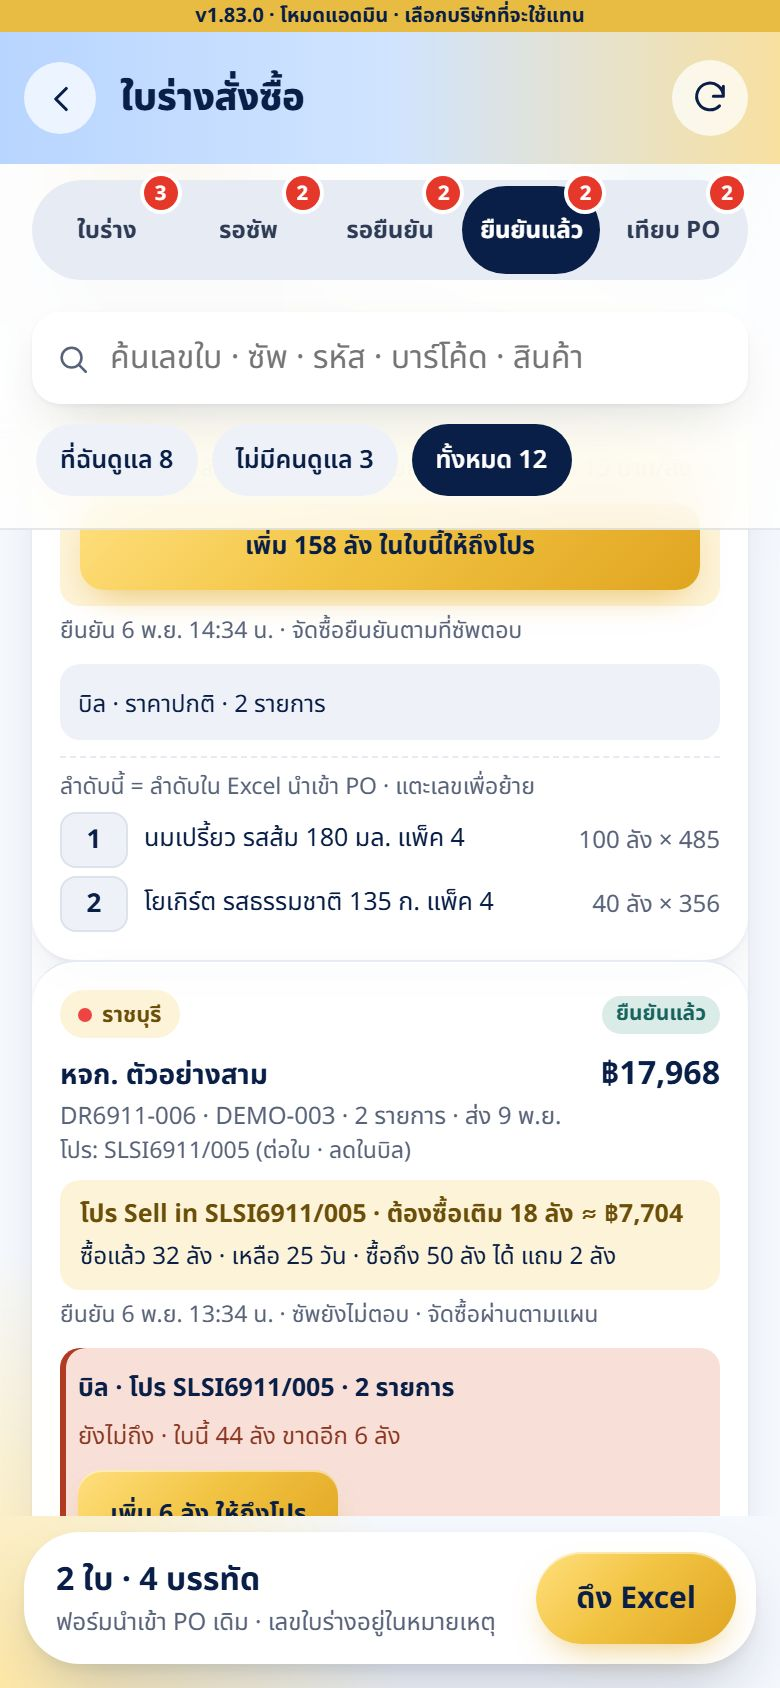
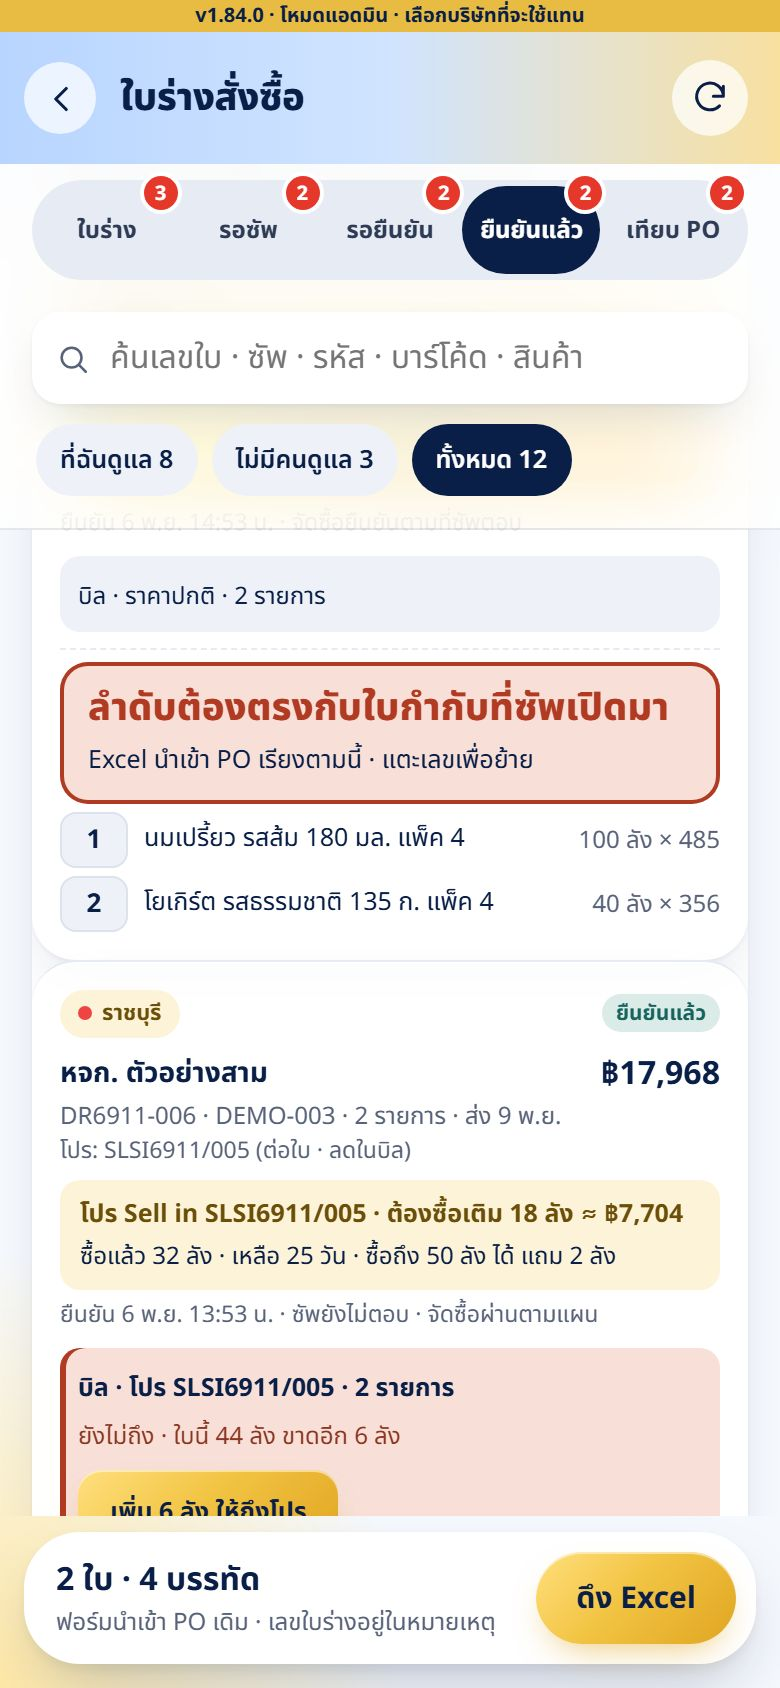
SupplyLink guides: ลำดับรายการใบร่างตรงใบกำกับ (ซัพ v1.12.0 · จัดซื้อ v1.10.1)

diff --git a/supplylink-guide.html b/supplylink-guide.html
@@ -3,7 +3,7 @@
 <head>
 <meta charset="utf-8">
 <meta name="viewport" content="width=device-width,initial-scale=1,viewport-fit=cover">
-<title>ฝึกใช้ SupplyLink v1.11.1</title>
+<title>ฝึกใช้ SupplyLink v1.12.0</title>
 <link rel="preconnect" href="https://fonts.googleapis.com">
 <link href="https://fonts.googleapis.com/css2?family=Noto+Sans+Thai:wght@400;500;600;700&display=swap" rel="stylesheet">
 <style>
@@ -138,8 +138,8 @@ button{font:inherit;cursor:pointer}
 
 <script>
 (function () {
-  var VER = 'v1.11.1', APP = 'https://liff.line.me/2011693023-xbdsN1K7';
-  var IMG = {"h0":"supplylink-guide/h0.jpg","hinc":"supplylink-guide/hinc.jpg","hdef":"supplylink-guide/hdef.jpg","hpo":"supplylink-guide/hpo.jpg","s2":"supplylink-guide/s2.jpg","s4":"supplylink-guide/s4.jpg","s5":"supplylink-guide/s5.jpg","s6":"supplylink-guide/s6.jpg","s7":"supplylink-guide/s7.jpg","s9":"supplylink-guide/s9.jpg","s10":"supplylink-guide/s10.jpg","s11":"supplylink-guide/s11.jpg","z1":"supplylink-guide/z1.jpg","zm":"supplylink-guide/zm.jpg","zt":"supplylink-guide/zt.jpg","zs":"supplylink-guide/zs.jpg","zi":"supplylink-guide/zi.jpg","q1":"supplylink-guide/q1.jpg","q2":"supplylink-guide/q2.jpg","q3":"supplylink-guide/q3.jpg","q4":"supplylink-guide/q4.jpg","q5":"supplylink-guide/q5.jpg","q6":"supplylink-guide/q6.jpg","q7":"supplylink-guide/q7.jpg","q8":"supplylink-guide/q8.jpg","x1":"supplylink-guide/x1.jpg","x2":"supplylink-guide/x2.jpg","x3":"supplylink-guide/x3.jpg","x4":"supplylink-guide/x4.jpg","x5":"supplylink-guide/x5.jpg","x6":"supplylink-guide/x6.jpg","x7":"supplylink-guide/x7.jpg","a2":"supplylink-guide/a2.jpg","a3":"supplylink-guide/a3.jpg","a5":"supplylink-guide/a5.jpg","d2":"supplylink-guide/d2.jpg","a4":"supplylink-guide/a4.jpg","d3":"supplylink-guide/d3.jpg","d4":"supplylink-guide/d4.jpg","p1":"supplylink-guide/p1.jpg","p1b":"supplylink-guide/p1b.jpg","b2":"supplylink-guide/b2.jpg","b3":"supplylink-guide/b3.jpg","p5":"supplylink-guide/p5.jpg","c2":"supplylink-guide/c2.jpg","c3":"supplylink-guide/c3.jpg","k1":"supplylink-guide/k1.jpg","k2":"supplylink-guide/k2.jpg","k3":"supplylink-guide/k3.jpg","k4":"supplylink-guide/k4.jpg","k5":"supplylink-guide/k5.jpg","k6":"supplylink-guide/k6.jpg","k7":"supplylink-guide/k7.jpg","k9":"supplylink-guide/k9.jpg","k10":"supplylink-guide/k10.jpg","k11":"supplylink-guide/k11.jpg","n1":"supplylink-guide/n1.jpg","n2":"supplylink-guide/n2.jpg","n3":"supplylink-guide/n3.jpg","n4":"supplylink-guide/n4.jpg","n5":"supplylink-guide/n5.jpg","n6":"supplylink-guide/n6.jpg","n7":"supplylink-guide/n7.jpg","n8":"supplylink-guide/n8.jpg","n9":"supplylink-guide/n9.jpg","g1":"supplylink-guide/g1.jpg","g2":"supplylink-guide/g2.jpg","g3":"supplylink-guide/g3.jpg","g4":"supplylink-guide/g4.jpg","m1":"supplylink-guide/m1.jpg","m2":"supplylink-guide/m2.jpg","m3":"supplylink-guide/m3.jpg","m4":"supplylink-guide/m4.jpg","m5":"supplylink-guide/m5.jpg","f1":"supplylink-guide/f1.jpg","f2":"supplylink-guide/f2.jpg","f3":"supplylink-guide/f3.jpg","f4":"supplylink-guide/f4.jpg","dws":"supplylink-guide/dws.jpg","dwh":"supplylink-guide/dwh.jpg","stk":"supplylink-guide/stk.jpg","stk2":"supplylink-guide/stk2.jpg","stkh":"supplylink-guide/stkh.jpg","cbi":"supplylink-guide/cbi.jpg","cb1":"supplylink-guide/cb1.jpg","cb2":"supplylink-guide/cb2.jpg","cb3":"supplylink-guide/cb3.jpg","cbp":"supplylink-guide/cbp.jpg","ot0":"supplylink-guide/ot0.jpg","inv1":"supplylink-guide/inv1.jpg","ot1":"supplylink-guide/ot1.jpg","ot2":"supplylink-guide/ot2.jpg","ot3":"supplylink-guide/ot3.jpg"};                                       /* แทนด้วยรูปตอน build */
+  var VER = 'v1.12.0', APP = 'https://liff.line.me/2011693023-xbdsN1K7';
+  var IMG = {"h0":"supplylink-guide/h0.jpg","hinc":"supplylink-guide/hinc.jpg","hdef":"supplylink-guide/hdef.jpg","hpo":"supplylink-guide/hpo.jpg","s2":"supplylink-guide/s2.jpg","s4":"supplylink-guide/s4.jpg","s5":"supplylink-guide/s5.jpg","s6":"supplylink-guide/s6.jpg","s7":"supplylink-guide/s7.jpg","s9":"supplylink-guide/s9.jpg","s10":"supplylink-guide/s10.jpg","s11":"supplylink-guide/s11.jpg","z1":"supplylink-guide/z1.jpg","zm":"supplylink-guide/zm.jpg","zt":"supplylink-guide/zt.jpg","zs":"supplylink-guide/zs.jpg","zi":"supplylink-guide/zi.jpg","q1":"supplylink-guide/q1.jpg","q2":"supplylink-guide/q2.jpg","q3":"supplylink-guide/q3.jpg","q4":"supplylink-guide/q4.jpg","q5":"supplylink-guide/q5.jpg","q6":"supplylink-guide/q6.jpg","q7":"supplylink-guide/q7.jpg","q8":"supplylink-guide/q8.jpg","x1":"supplylink-guide/x1.jpg","x2":"supplylink-guide/x2.jpg","x3":"supplylink-guide/x3.jpg","x4":"supplylink-guide/x4.jpg","x5":"supplylink-guide/x5.jpg","x6":"supplylink-guide/x6.jpg","x7":"supplylink-guide/x7.jpg","a2":"supplylink-guide/a2.jpg","a3":"supplylink-guide/a3.jpg","a5":"supplylink-guide/a5.jpg","d2":"supplylink-guide/d2.jpg","a4":"supplylink-guide/a4.jpg","d3":"supplylink-guide/d3.jpg","d4":"supplylink-guide/d4.jpg","p1":"supplylink-guide/p1.jpg","p1b":"supplylink-guide/p1b.jpg","b2":"supplylink-guide/b2.jpg","b3":"supplylink-guide/b3.jpg","p5":"supplylink-guide/p5.jpg","c2":"supplylink-guide/c2.jpg","c3":"supplylink-guide/c3.jpg","k1":"supplylink-guide/k1.jpg","k2":"supplylink-guide/k2.jpg","k3":"supplylink-guide/k3.jpg","k4":"supplylink-guide/k4.jpg","k5":"supplylink-guide/k5.jpg","k6":"supplylink-guide/k6.jpg","k7":"supplylink-guide/k7.jpg","k9":"supplylink-guide/k9.jpg","k10":"supplylink-guide/k10.jpg","k11":"supplylink-guide/k11.jpg","n1":"supplylink-guide/n1.jpg","n2":"supplylink-guide/n2.jpg","n3":"supplylink-guide/n3.jpg","n4":"supplylink-guide/n4.jpg","n5":"supplylink-guide/n5.jpg","n6":"supplylink-guide/n6.jpg","n7":"supplylink-guide/n7.jpg","n8":"supplylink-guide/n8.jpg","n9":"supplylink-guide/n9.jpg","g1":"supplylink-guide/g1.jpg","g2":"supplylink-guide/g2.jpg","g3":"supplylink-guide/g3.jpg","g4":"supplylink-guide/g4.jpg","m1":"supplylink-guide/m1.jpg","m2":"supplylink-guide/m2.jpg","m3":"supplylink-guide/m3.jpg","m4":"supplylink-guide/m4.jpg","m5":"supplylink-guide/m5.jpg","f1":"supplylink-guide/f1.jpg","f2":"supplylink-guide/f2.jpg","f3":"supplylink-guide/f3.jpg","f4":"supplylink-guide/f4.jpg","dws":"supplylink-guide/dws.jpg","dwh":"supplylink-guide/dwh.jpg","stk":"supplylink-guide/stk.jpg","stk2":"supplylink-guide/stk2.jpg","stkh":"supplylink-guide/stkh.jpg","cbi":"supplylink-guide/cbi.jpg","cb1":"supplylink-guide/cb1.jpg","cb2":"supplylink-guide/cb2.jpg","cb3":"supplylink-guide/cb3.jpg","cbp":"supplylink-guide/cbp.jpg","ot0":"supplylink-guide/ot0.jpg","aseq":"supplylink-guide/aseq.jpg","inv1":"supplylink-guide/inv1.jpg","ot1":"supplylink-guide/ot1.jpg","ot2":"supplylink-guide/ot2.jpg","ot3":"supplylink-guide/ot3.jpg"};                                       /* แทนด้วยรูปตอน build */
   var HAND = '<svg class="hand" viewBox="0 0 48 48" aria-hidden="true"><path d="M19 6c2 0 3.5 1.6 3.5 3.6V22l1-.1V18c0-2 1.6-3.4 3.4-3.4S30.3 16 30.3 18v4.4l1-.1v-2.6c0-1.9 1.5-3.3 3.3-3.3s3.3 1.5 3.3 3.3v3.6l.8-.1c1.8 0 3.3 1.5 3.3 3.3V34c0 6.6-5.4 12-12 12h-3.4c-3.8 0-7.4-1.8-9.6-4.9L8.5 30.6c-1-1.4-.7-3.4.7-4.4 1.4-1 3.3-.8 4.4.5l2 2.4V9.6C15.6 7.6 17.1 6 19 6z" fill="#fff" stroke="#0A1F47" stroke-width="2.4" stroke-linejoin="round"/></svg>';
   var FLOWCARD = function () {                              /* ส่งแล้วเกิดอะไรขึ้น: ซัพตอบ → จัดซื้อยืนยัน → เปิด PO จริง */
     var box = function (n, h, d, tone) { return '<div style="display:flex;gap:3cqw;align-items:flex-start;background:' + (tone || '#fff') + ';border-radius:4cqw;padding:3.6cqw 4cqw">' +
@@ -170,10 +170,11 @@ button{font:inherit;cursor:pointer}
       { img:'g3', r:[24, 698, 342, 52], h:'ส่งคำขอเปิดบัญชี', d:'ชื่อ LINE และรหัส LINE แอปเก็บให้เอง ไม่ต้องกรอก' },
       { img:'g4', r:[24, 529, 342, 52], h:'รอจัดซื้ออนุมัติ', d:'อนุมัติแล้วได้ข้อความใน LINE ทันที · กดตรวจสอบอีกครั้ง หรือเปิดแอปใหม่ ก็เข้าได้เลย' }
     ], end:'ไม่ผ่าน = ได้เหตุผลใน LINE แก้แล้วส่งคำขอใหม่ในแอป · ห้ามส่ง LINE ID ให้จัดซื้อพิมพ์เอง (เข้าไม่ได้)' },
-    { k:'draft', t:'ใบร่างสั่งซื้อ ก่อนเปิด PO', g:'ใบร่างสั่งซื้อ', s:'ราคา โปร ขาดทุน', n:11, steps:[
+    { k:'draft', t:'ใบร่างสั่งซื้อ ก่อนเปิด PO', g:'ใบร่างสั่งซื้อ', s:'ราคา โปร ขาดทุน', n:12, steps:[
       { html:function () { return LINECARD('ใบร่างสั่งซื้อ รอคุณตรวจ', 'ใบร่าง DR6911-012', [['บริษัท', 'บริษัท ตัวอย่าง จำกัด'], ['ส่งที่', 'คลังสุพรรณบุรี'], ['วันส่งที่ขอ', 'ให้คุณเสนอ'], ['สินค้า', '2 รายการ'], ['ช่วยตรวจ', 'จำนวนที่ส่งได้ · ราคา · ของแถม ก่อนเปิด PO']], ['ยอดตามแผน · ก่อน VAT', '฿49,840.00'], 'เปิดตรวจในแอป'); }, el:'lbtn',
         h:'ได้การ์ด LINE', d:'ฝ่ายจัดซื้อส่งใบร่างมาให้ตรวจ แตะ "เปิดตรวจในแอป"' },
       { img:'a2', r:[16, 374, 358, 62], h:'นี่คือใบร่าง', d:'แตะรายการสินค้าเพื่อแก้จำนวน ราคา หรือของแถม' },
+      { img:'aseq', r:[26, 398, 34, 28], h:'เรียงลำดับให้ตรงใบกำกับ', d:'ลำดับต้องตรงกับใบกำกับภาษีที่จะเปิดมา (จัดซื้อเอาไปตรวจชน) · แตะเลขหน้ารายการแล้วพิมพ์ลำดับใหม่', fx:'type', fxt:'2' },
       { img:'a3', r:[16, 385, 316, 40], h:'ดูรายการที่ต้องแก้ก่อน', d:'"ราคาผิด" = ราคาไม่ตรงทุนล่าสุด · "ขาดทุน" = รัตนขายแล้วขาดทุน ต้องแก้ให้เรียบร้อยก่อนส่ง' },
       { img:'d2', r:[16, 227, 358, 110], h:'แก้ราคา โปร ของแถม', d:'แจ้งราคาที่ถูก ใส่ส่วนลด/ของแถมตามโปรที่ตกลง หรือใส่ราคาแนะนำขาย แตะช่องนี้', fx:'type' },
       { img:'a5', r:[12, 766, 366, 66], h:'ยังแก้ไม่ครบ = ยังส่งไม่ได้', d:'แถบล่างบอกว่าเหลือกี่รายการ กดส่งแล้วแอปพาไปจุดที่ต้องแก้ให้เอง' },

diff --git a/supplylink-buyer-guide.html b/supplylink-buyer-guide.html
@@ -3,7 +3,7 @@
 <head>
 <meta charset="utf-8">
 <meta name="viewport" content="width=device-width,initial-scale=1,viewport-fit=cover">
-<title>คู่มือจัดซื้อ SupplyLink v1.10.0</title>
+<title>คู่มือจัดซื้อ SupplyLink v1.10.1</title>
 <link rel="preconnect" href="https://fonts.googleapis.com">
 <link href="https://fonts.googleapis.com/css2?family=Noto+Sans+Thai:wght@400;500;600;700&display=swap" rel="stylesheet">
 <style>
@@ -192,7 +192,7 @@ button{font:inherit;cursor:pointer}
 
 <script>
 (function () {
-  var VER = 'v1.10.0', APP = 'rattana-supplylink.html';
+  var VER = 'v1.10.1', APP = 'rattana-supplylink.html';
   var IMG = {"bb":"supplylink-buyer-guide/bb.jpg","bcl":"supplylink-buyer-guide/bcl.jpg","bclo":"supplylink-buyer-guide/bclo.jpg","bclp":"supplylink-buyer-guide/bclp.jpg","bcls":"supplylink-buyer-guide/bcls.jpg","bd":"supplylink-buyer-guide/bd.jpg","bdc":"supplylink-buyer-guide/bdc.jpg","bdh":"supplylink-buyer-guide/bdh.jpg","bdn":"supplylink-buyer-guide/bdn.jpg","bdq":"supplylink-buyer-guide/bdq.jpg","bdr":"supplylink-buyer-guide/bdr.jpg","bdw":"supplylink-buyer-guide/bdw.jpg","bh":"supplylink-buyer-guide/bh.jpg","binc":"supplylink-buyer-guide/binc.jpg","boa":"supplylink-buyer-guide/boa.jpg","bob":"supplylink-buyer-guide/bob.jpg","boc":"supplylink-buyer-guide/boc.jpg","bod":"supplylink-buyer-guide/bod.jpg","boe":"supplylink-buyer-guide/boe.jpg","bpd":"supplylink-buyer-guide/bpd.jpg","bpo":"supplylink-buyer-guide/bpo.jpg","bpr":"supplylink-buyer-guide/bpr.jpg","bq":"supplylink-buyer-guide/bq.jpg","brv":"supplylink-buyer-guide/brv.jpg","brvb":"supplylink-buyer-guide/brvb.jpg","brvo":"supplylink-buyer-guide/brvo.jpg","btc":"supplylink-buyer-guide/btc.jpg","bvi1":"supplylink-buyer-guide/bvi1.jpg","bvi2":"supplylink-buyer-guide/bvi2.jpg","bvr":"supplylink-buyer-guide/bvr.jpg","bvt":"supplylink-buyer-guide/bvt.jpg","dwa":"supplylink-buyer-guide/dwa.jpg","swa":"supplylink-buyer-guide/swa.jpg"}, RECTS = {"bb":{"drafts":[16,320,358,74],"review":[16,468,358,74],"incrv":[16,542,358,74],"claims":[16,246,358,74],"prop":[16,616,358,74],"tabbuyer":[319,765,50,64]},"bcl":{"due":[19,215,69,44],"sup":[90,215,69,44],"pay":[161,215,69,44],"calc":[30,474,330,44]},"bclo":{"save":[98,631,250,44]},"bclp":{"paid":[30,504,151,44]},"bcls":{"send":[107,511,99,44]},"bd":{"row":[16,371,358,180],"send":[276,776,92,46]},"bdc":{"diff":[187,90,74,44],"sendpo":[30,396,330,44]},"bdh":{"dw":[16,246,358,74]},"bdn":{"remind":[30,398,149,44]},"bdq":{"seq":[30,406,34,28]},"bdr":{"xls":[268,776,100,46],"row":[16,361,358,316]},"bdw":{"ok":[152,454,208,44],"back":[30,454,114,44]},"bh":{"mine":[18,102,85,44],"pend":[16,174,174,111],"rv":[200,174,174,111],"late":[16,295,174,111],"qt":[200,295,174,111],"nob":[16,425,358,74],"tabhome":[21,765,50,64],"tabqueue":[120,765,50,64],"tabpo":[170,765,50,64],"tabproducts":[220,765,50,64],"tabbuyer":[319,765,50,64]},"binc":{"row":[16,265,358,305],"camp":[30,406,330,46],"ok":[173,514,187,44],"no":[30,514,133,44]},"boa":{"ob":[16,98,358,74]},"bob":{"row":[16,137,358,91]},"boc":{"docs":[16,267,358,173],"q":[53,502,309,26]},"bod":{"pick":[16,321,358,56],"rev":[16,525,358,44],"new":[16,433,358,58],"ok":[169,682,205,52],"no":[16,682,143,52]},"boe":{"pick":[16,170,358,56],"wh":[16,446,358,99],"ok":[169,682,205,52]},"bpd":{"back":[12,34,36,36]},"bpo":{"card":[16,268,358,107]},"bpr":{"row":[16,378,358,80],"pdf":[297,399,65,38]},"bq":{"row":[16,268,358,114],"meet":[117,204,79,44]},"brv":{"row":[64,276,310,128],"done":[105,92,87,44]},"brvb":{"ok":[169,682,205,52],"no":[16,682,143,52],"note":[30,550,330,68]},"brvo":{"diff":[16,103,358,172]},"btc":{"pick":[16,389,358,56],"chip":[295,398,66,20],"q":[53,262,275,26]},"bvi1":{"make":[16,682,358,52],"wh":[16,575,358,99]},"bvi2":{"line":[172,677,189,44],"copy":[29,677,133,44]},"bvr":{"reg":[16,172,358,74]},"bvt":{"wh":[29,286,332,99],"rev":[29,393,114,44],"q":[53,106,309,26]},"dwa":{"q":[54,92,308,26],"wait":[102,196,112,44],"row":[16,270,358,141]},"swa":{"tab":[119,140,109,44],"row":[16,214,358,118],"q":[54,92,308,26]}};                                       /* แทนด้วยรูปตอน build */
   var HAND = '<svg class="hand" viewBox="0 0 48 48" aria-hidden="true"><path d="M19 6c2 0 3.5 1.6 3.5 3.6V22l1-.1V18c0-2 1.6-3.4 3.4-3.4S30.3 16 30.3 18v4.4l1-.1v-2.6c0-1.9 1.5-3.3 3.3-3.3s3.3 1.5 3.3 3.3v3.6l.8-.1c1.8 0 3.3 1.5 3.3 3.3V34c0 6.6-5.4 12-12 12h-3.4c-3.8 0-7.4-1.8-9.6-4.9L8.5 30.6c-1-1.4-.7-3.4.7-4.4 1.4-1 3.3-.8 4.4.5l2 2.4V9.6C15.6 7.6 17.1 6 19 6z" fill="#fff" stroke="#0A1F47" stroke-width="2.4" stroke-linejoin="round"/></svg>';
   var FLOWCARD = function () {                              /* ส่งแล้วเกิดอะไรขึ้น: ซัพตอบ → จัดซื้อยืนยัน → เปิด PO จริง */
@@ -241,7 +241,7 @@ button{font:inherit;cursor:pointer}
       { img:'bb', r:'@bb.drafts', h:'จัดซื้อ › ใบร่างสั่งซื้อ', d:'มีตัวเลขบอกว่าซัพตอบมากี่ใบ แตะเพื่อเข้าไป' },
       { img:'bdw', r:'@bdw.back', h:'แท็บ "รอยืนยัน" ดูที่ซัพแก้', d:'ทีละจุด: ราคา จำนวน ของแถม วันส่ง เลือก "รับตามซัพ" หรือ "ใช้แผนเดิม" · ไม่ตกลงทั้งใบ กดส่งกลับให้แก้' },
       { img:'bdw', r:'@bdw.ok', h:'ยืนยันใบร่าง', d:'เลือกครบทุกจุดแล้วกดยืนยัน · รายการที่ยังขาดทุนยืนยันไม่ได้ ต้องใช้แผนเดิมหรือให้ซัพแก้' },
-      { img:'bdq', r:'@bdq.seq', h:'ลำดับรายการ = ลำดับใน Excel', d:'แอปเรียงให้แล้ว แบรนด์ › ขนาด › สินค้า ตามยอดขาย · จะย้ายบรรทัดไหน แตะเลขแล้วพิมพ์ลำดับใหม่ · ดึง Excel แล้วแก้ใน ERP แทน', fx:'type', fxt:'1' },
+      { img:'bdq', r:'@bdq.seq', h:'ลำดับรายการ = ลำดับใน Excel', d:'แอปเรียงให้ตอนส่ง (แบรนด์ › ขนาด › สินค้า ตามยอดขาย) · ซัพเรียงใหม่ให้ตรงใบกำกับได้ ยืนยันตามซัพ = ลำดับของซัพ · ลำดับต้องตรงกับใบกำกับที่ซัพเปิดมา · ย้ายเอง แตะเลขแล้วพิมพ์ · ดึง Excel แล้วแก้ใน ERP', fx:'type', fxt:'1' },
       { img:'bdr', r:'@bdr.xls', h:'ดึง Excel ไปเปิด PO ใน ERP', d:'แท็บ "ยืนยันแล้ว" กดดึง Excel แอปแยกบิลตามโปรและใส่ส่วนลดให้ · ดึงซ้ำได้ ตัวเลขเดิม' },
       { img:'bdc', r:'@bdc.diff', h:'แท็บ "เทียบ PO"', d:'เปิด PO ใน ERP โดยใส่เลขใบร่างในหมายเหตุ PO แอปจับคู่ให้เอง แล้วเทียบว่า เหมือน / ต่าง จากที่ตกลง' },
       { img:'bdc', r:'@bdc.sendpo', h:'ส่ง PO ให้ซัพ', d:'แอปเทียบ PO กับที่ตกลง ตรง = ซัพจองคิวได้เลย · ต่าง = ซัพต้องยืนยัน PO อีกครั้ง · กดซ้ำไม่ส่งซ้ำ' },
